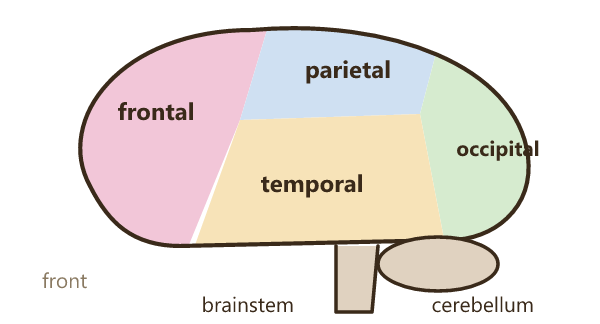
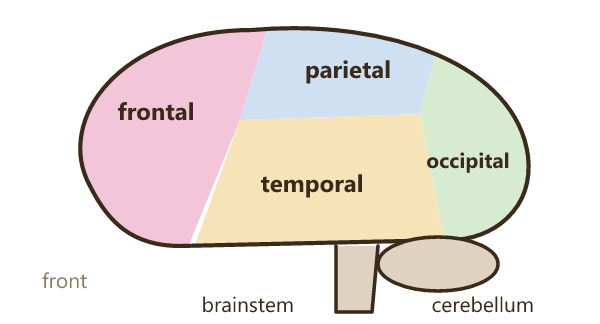
PSYC101: brain diagram label fits inside the outline
Claude-Session: https://claude.ai/code/session_01JZfV5FRKkon3UVTBXWJ9mj

Changed region(s): [[0.69, 0.4321, 0.9, 0.5247]]

diff --git a/psyc101/.src/d-1-early.js b/psyc101/.src/d-1-early.js
@@ -93,7 +93,7 @@ module.exports = {
 		s += `<ellipse cx="146" cy="88" rx="20" ry="9" fill="#E0D2C0" stroke="${C.ink}" stroke-width="1.2"/>`;
 		s += path("M112,82 L112,104 L124,104 L126,82", { fill: "#E0D2C0", sw: 1.2 });
 		s += text(52, 40, "frontal", { size: 8, bold: true }) + text(116, 26, "parietal", { size: 8, bold: true });
-		s += text(166, 52, "occipital", { size: 7, bold: true }) + text(104, 64, "temporal", { size: 8, bold: true });
+		s += text(156, 56, "occipital", { size: 7, bold: true }) + text(104, 64, "temporal", { size: 8, bold: true });
 		s += text(178, 104, "cerebellum", { size: 7, anchor: "end" }) + text(98, 104, "brainstem", { size: 7, anchor: "end" });
 		s += text(14, 96, "front", { size: 7, color: C.faint, anchor: "start" });
 		return svg(200, 108, s);
